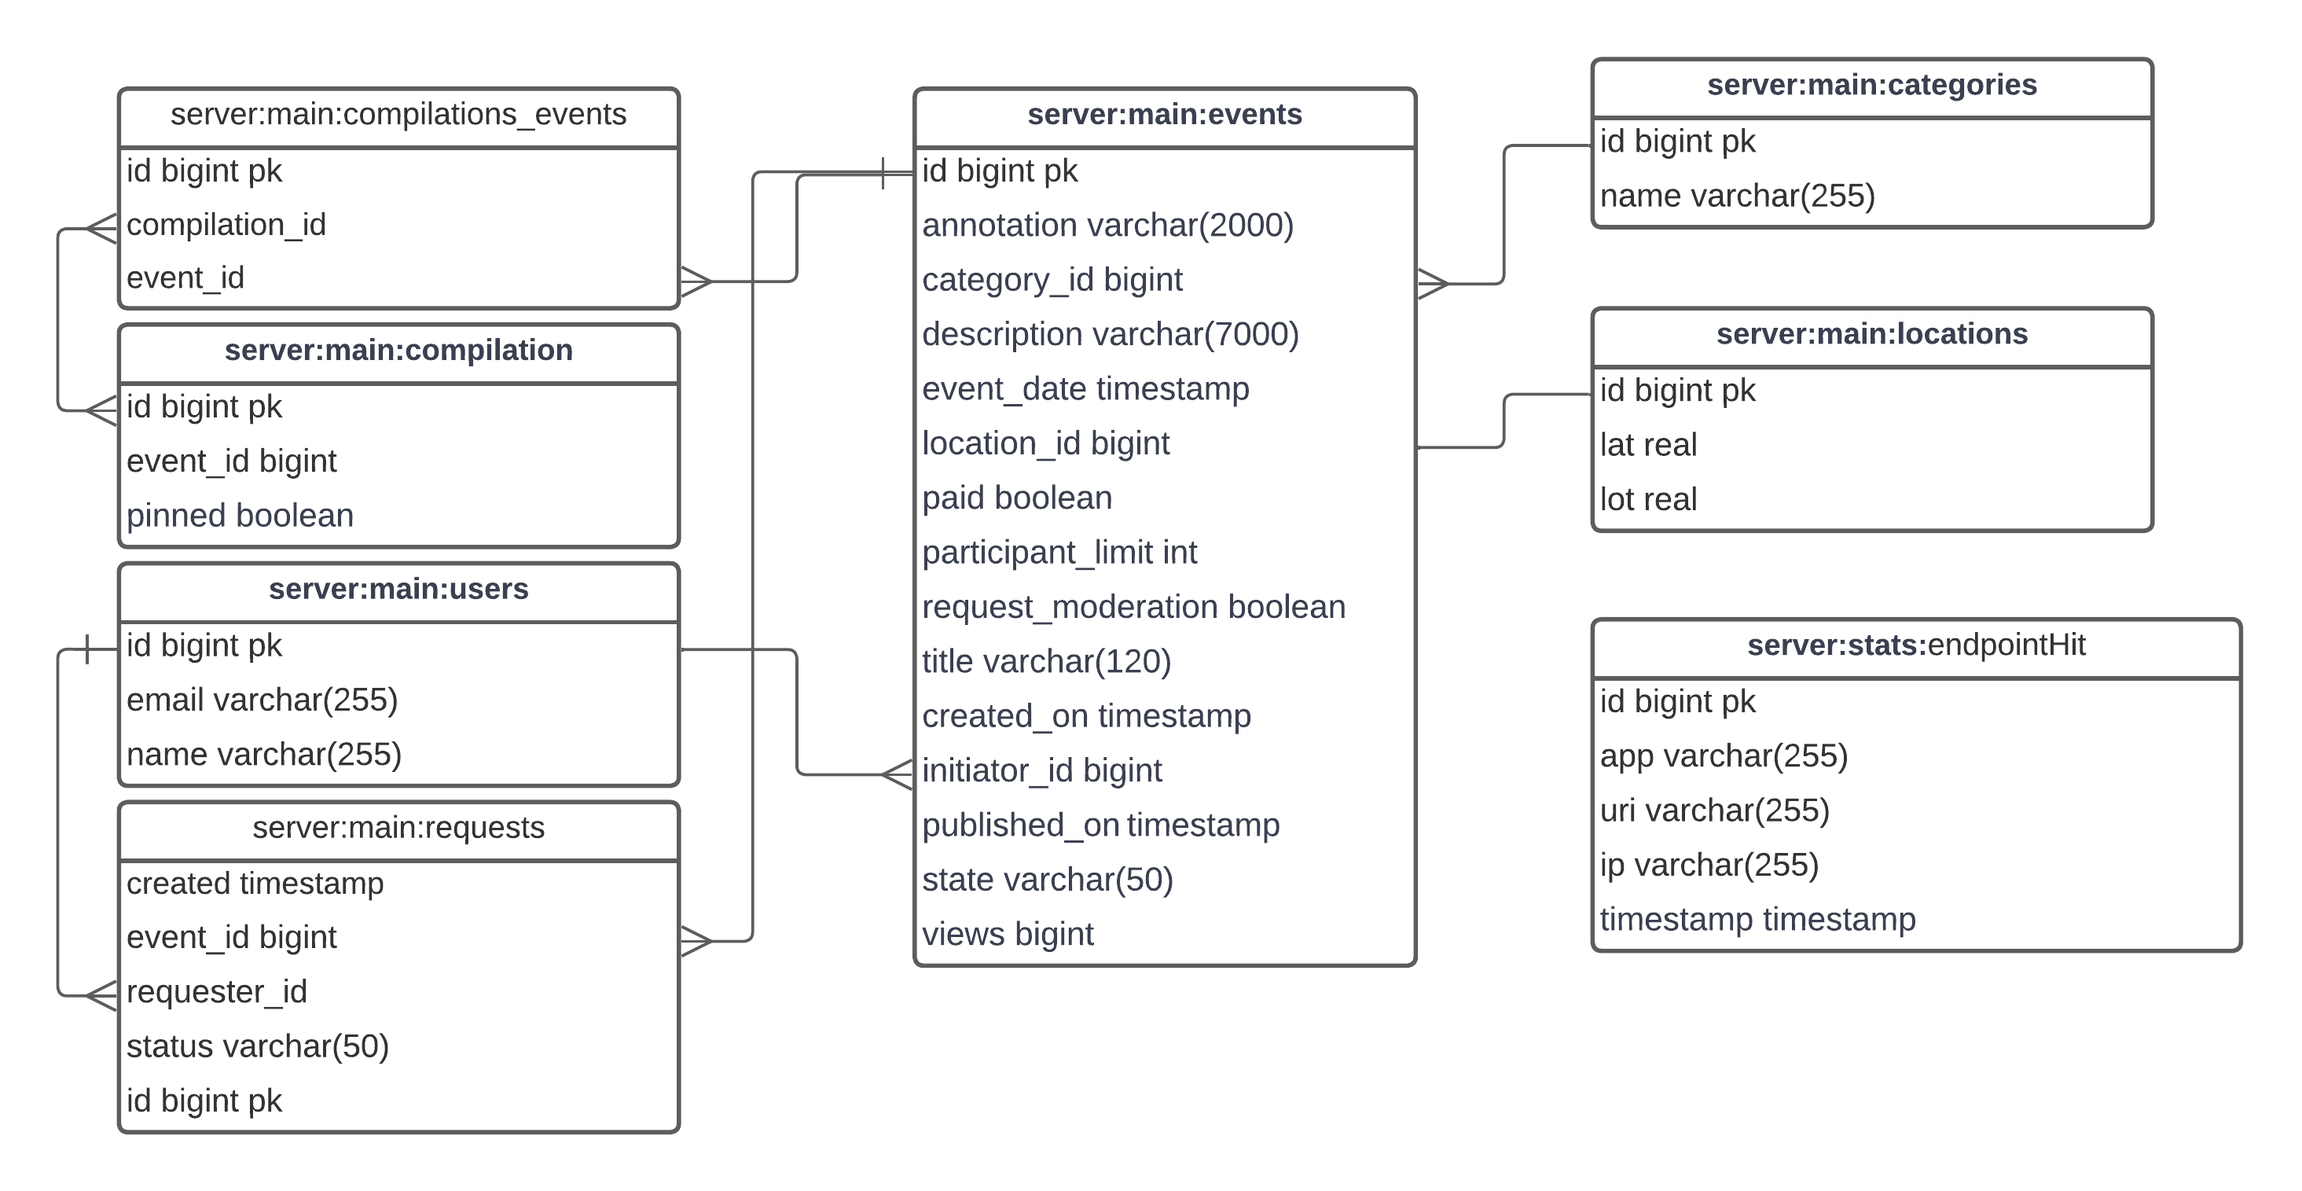
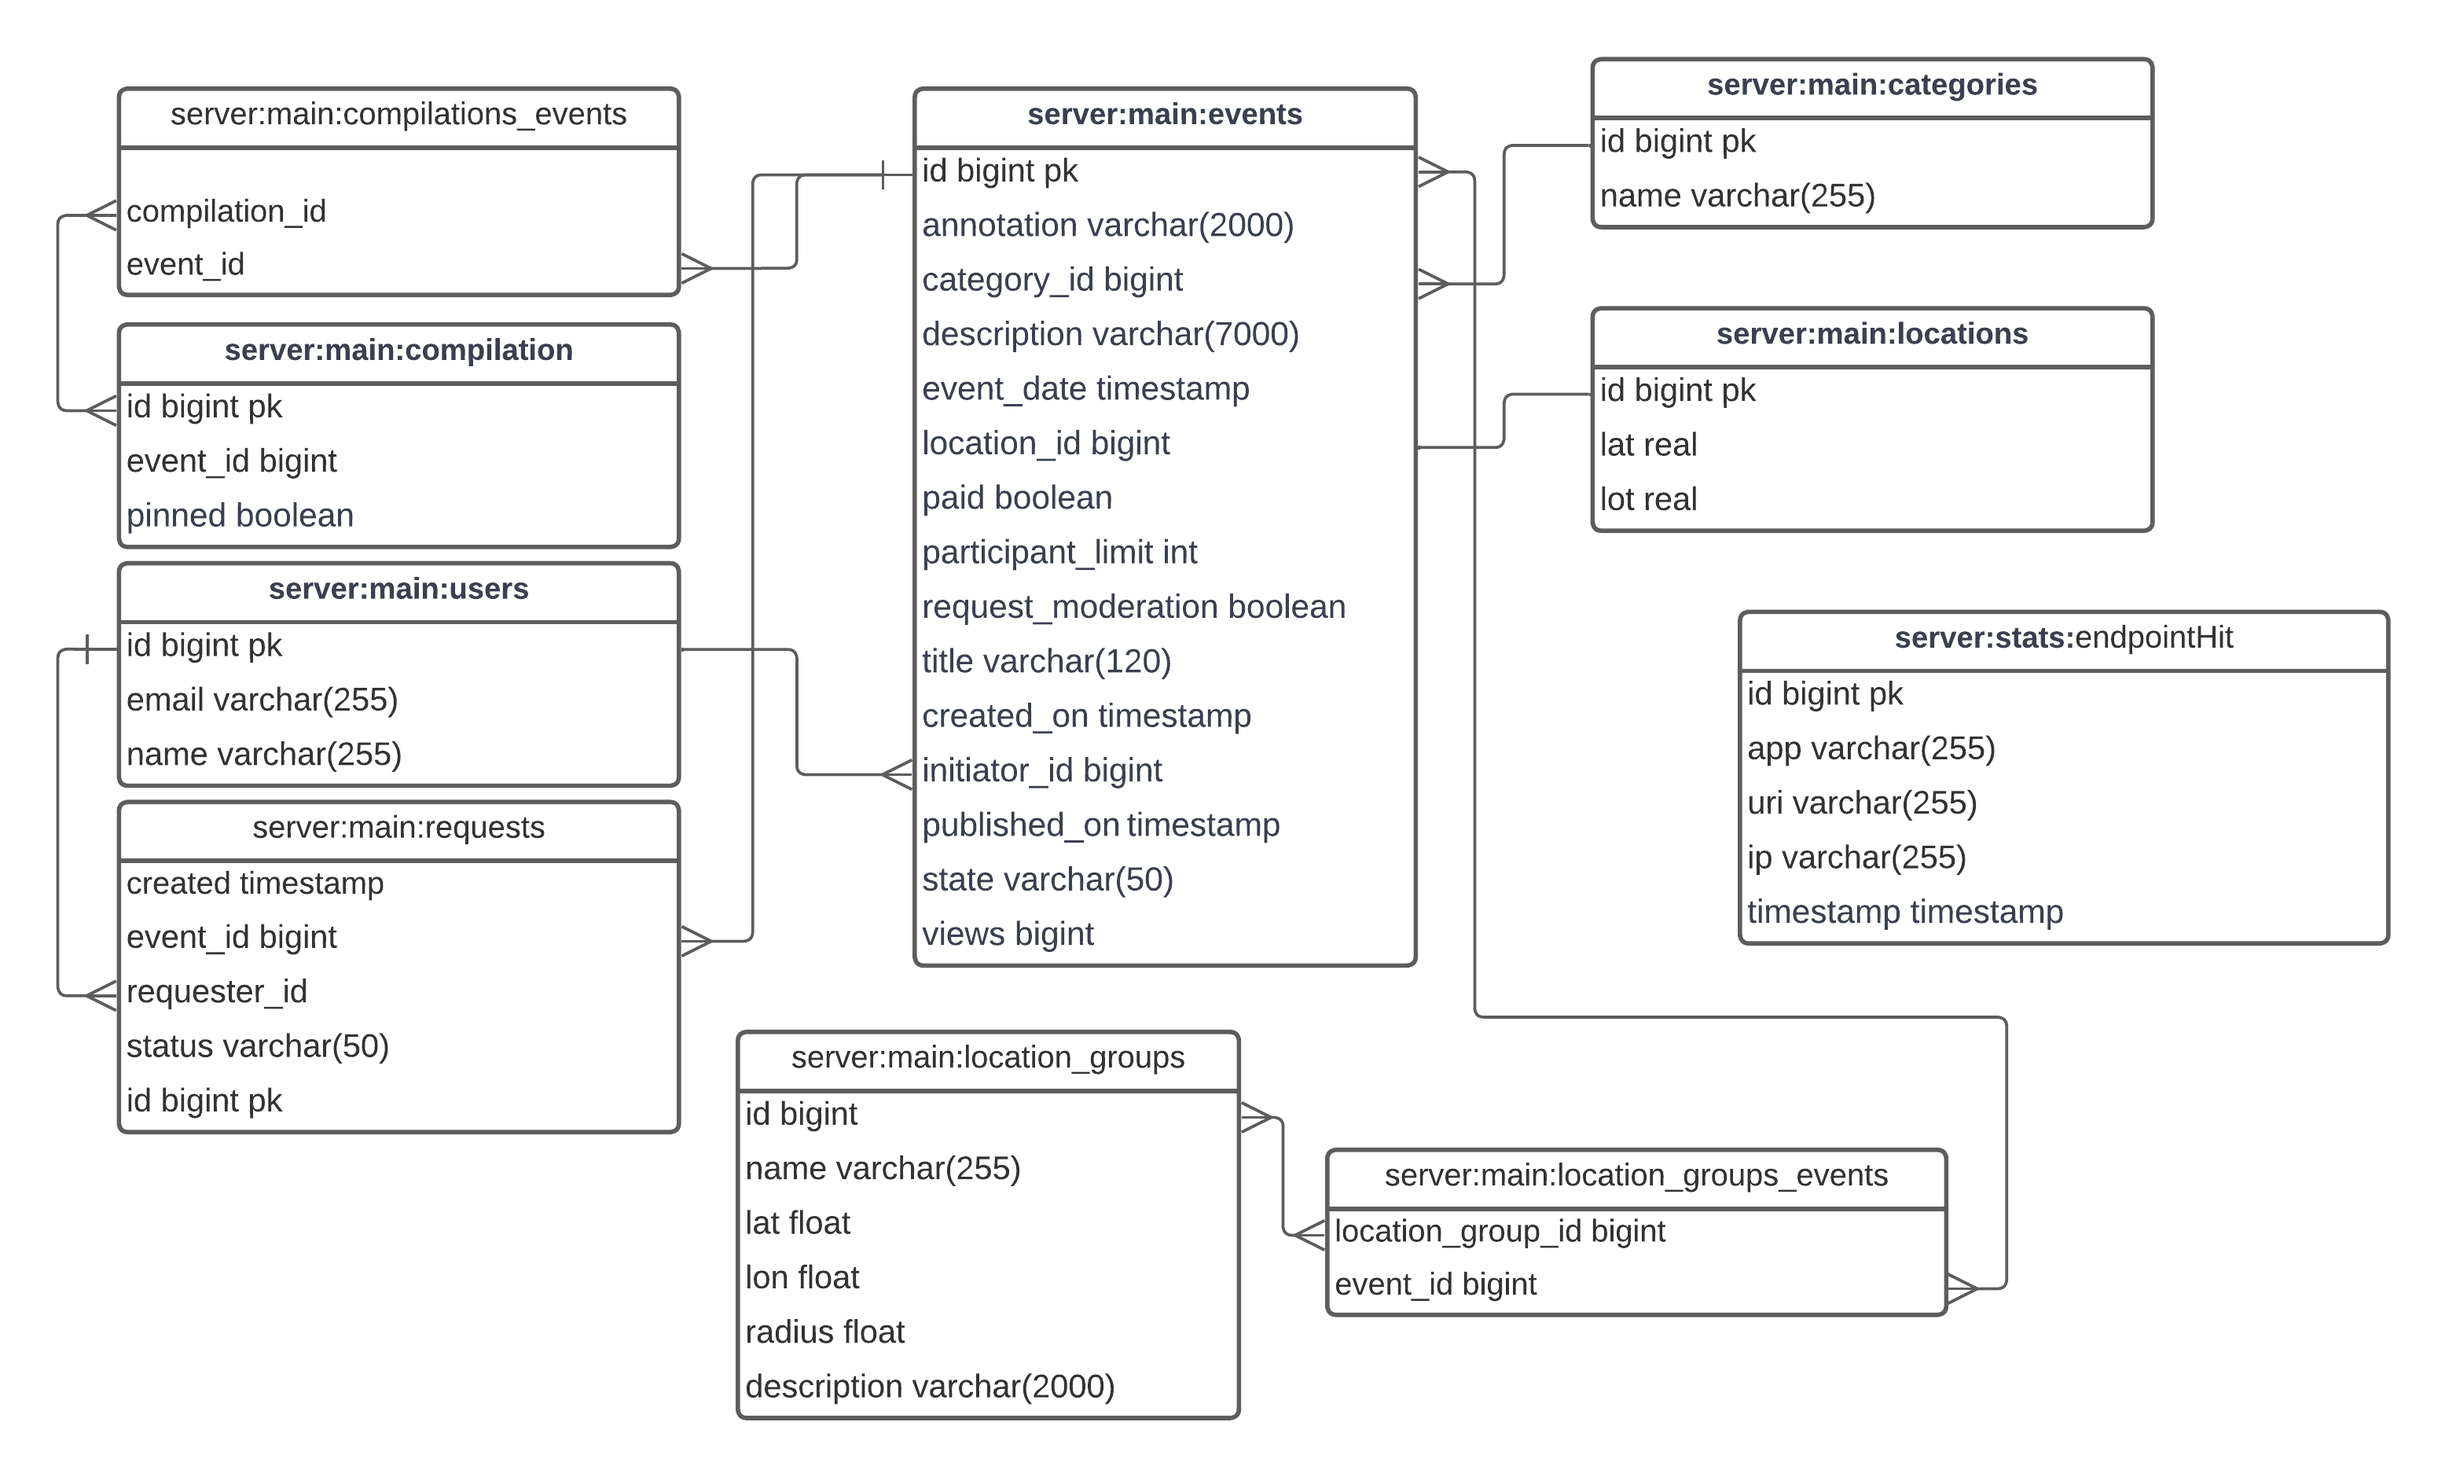
Фича на ревью после устранения замечаний.

Changed region(s): [[0.0, 0.031, 0.9942, 0.9617]]

diff --git a/server/src/main/java/ru/practicum/explorewithme/publicrequest/service/PublicLocationGroupServiceImpl.java b/server/src/main/java/ru/practicum/explorewithme/publicrequest/service/PublicLocationGroupServiceImpl.java
@@ -14,12 +14,11 @@
     @Slf4j
     @Service
     @RequiredArgsConstructor
+    @Transactional(readOnly = true)
     public class PublicLocationGroupServiceImpl implements PublicLocationGroupService {
-
 
         private final LocationGroupRepository locationGroupRepository;
 
-        @Transactional(readOnly = true)
         @Override
         public List<LocationGroupDto> getLocationGroups() {
             List<LocationGroup> locationGroupList = locationGroupRepository.findAll();
@@ -32,12 +31,12 @@
             return LocationGroupMapper.toListLocationGroupDto(locationGroupList);
         }
 
-        @Transactional(readOnly = true)
         @Override
         public LocationGroupDto getLocationGroupById(Long id) {
             LocationGroup locationGroup = locationGroupRepository
                     .findById(id).orElseThrow(() -> new ObjectNotFoundException("Объект не найден. ",
                             String.format("LocationGroup with id={} was not found.", id)));
+            log.info("publicGetLocationGroupById get locationGroup by id={}", id);
             return LocationGroupMapper.toLocationGroupDto(locationGroup);
         }
     }

diff --git a/server/src/main/java/ru/practicum/explorewithme/dto/NewLocationGroupDto.java b/server/src/main/java/ru/practicum/explorewithme/dto/NewLocationGroupDto.java
@@ -5,6 +5,7 @@
     import lombok.NoArgsConstructor;
     import lombok.Setter;
     import javax.validation.constraints.NotNull;
+    import javax.validation.constraints.NotBlank;
 
     @Getter
     @Setter
@@ -12,7 +13,7 @@
     @AllArgsConstructor
     public class NewLocationGroupDto {
 
-        @NotNull
+        @NotBlank
         private String name;
         @NotNull
         private float lat;

diff --git a/README.md b/README.md
@@ -18,6 +18,9 @@ compilation, location, participationRequest) и базам данных main и 
 - Модуль статистики (statistics) — хранит количестве обращений пользователей к спискам событий 
 и количество запросов к подробной информации о событии в базе данных stats.<br>
 Схема взаимодействия данных.<br>
+<br>
+В проекте реализована возможность управлять локациями событий (фича). Локации могут 
+быть города, определенные места, парки, с радиусом в границах которого возможны события. 
 
 ![schema](schema.png)
 
